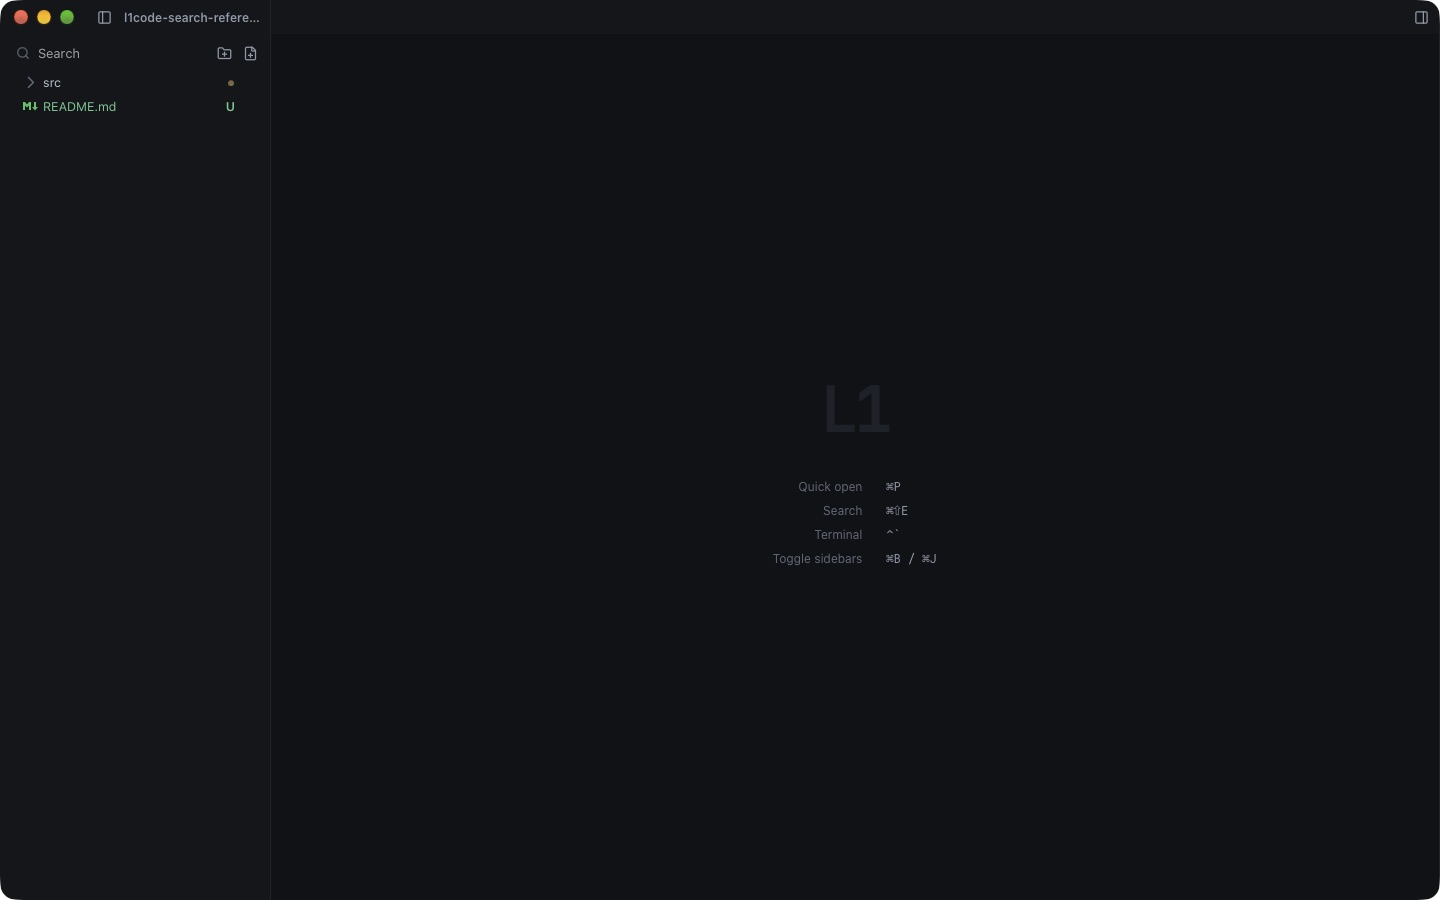
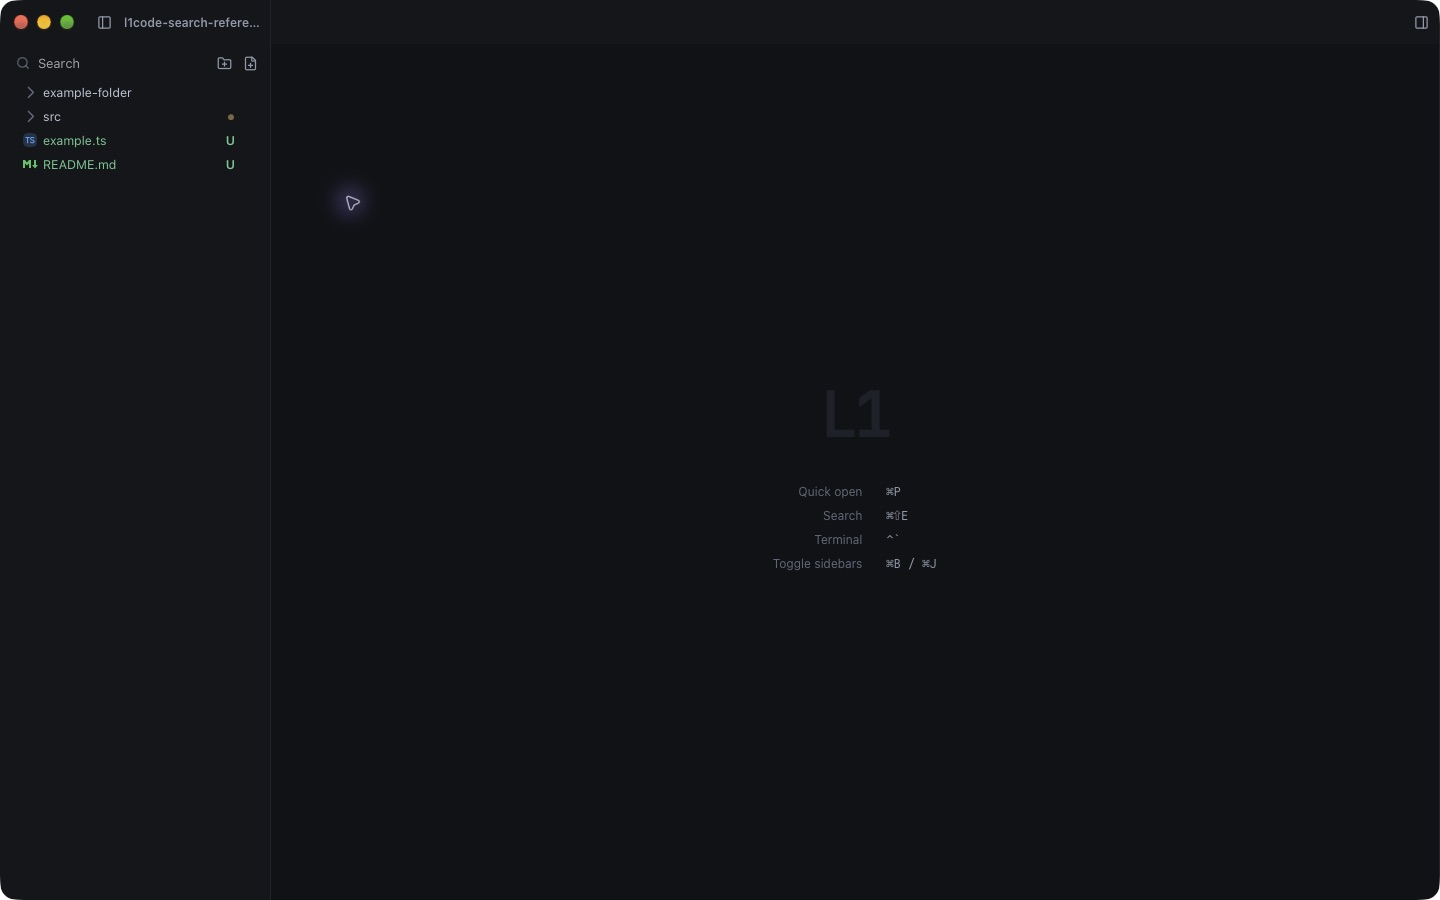
fix(ui): add search hover and titlebar spacing

diff --git a/src/shell/shell.css b/src/shell/shell.css
@@ -80,7 +80,7 @@ kbd {
 }
 .column-main > .column-toggle {
   position: absolute;
-  top: 5px;
+  top: calc((var(--titlebar-h) - 24px) / 2);
   z-index: 6;
 }
 .column-main > .column-toggle.left {
@@ -94,7 +94,7 @@ kbd {
 .side-top {
   display: flex;
   align-items: center;
-  height: 34px;
+  height: var(--titlebar-h);
   flex-shrink: 0;
   padding: 0 6px;
 }
@@ -126,7 +126,7 @@ kbd {
   display: flex;
   align-items: center;
   gap: 2px;
-  height: 34px;
+  height: var(--titlebar-h);
   padding: 0 6px;
   flex-shrink: 0;
   overflow-x: auto;

diff --git a/src/slices/explorer/explorer.css b/src/slices/explorer/explorer.css
@@ -37,6 +37,12 @@
   flex: 1;
   min-width: 0;
   margin-right: 4px;
+  border-radius: var(--radius-sm);
+  transition: background-color 120ms ease;
+}
+.explorer-filter:hover,
+.explorer-filter:focus-within {
+  background: var(--bg-hover);
 }
 .explorer-filter .input {
   height: 26px;

diff --git a/src/slices/editor/editor.css b/src/slices/editor/editor.css
@@ -15,7 +15,7 @@
 
 .tabbar {
   display: flex;
-  height: 34px;
+  height: var(--titlebar-h);
   flex-shrink: 0;
   /* The shell's column toggles sit in these insets while a side column is hidden. */
   padding: 0 var(--inset-right, 0) 0 var(--inset-left, 0);

diff --git a/src/styles.css b/src/styles.css
@@ -32,7 +32,7 @@
   --text-md: 13px;
   --radius: 6px;
   --radius-sm: 4px;
-  --titlebar-h: 38px;
+  --titlebar-h: 44px;
   --row-h: 24px;
 }
 
